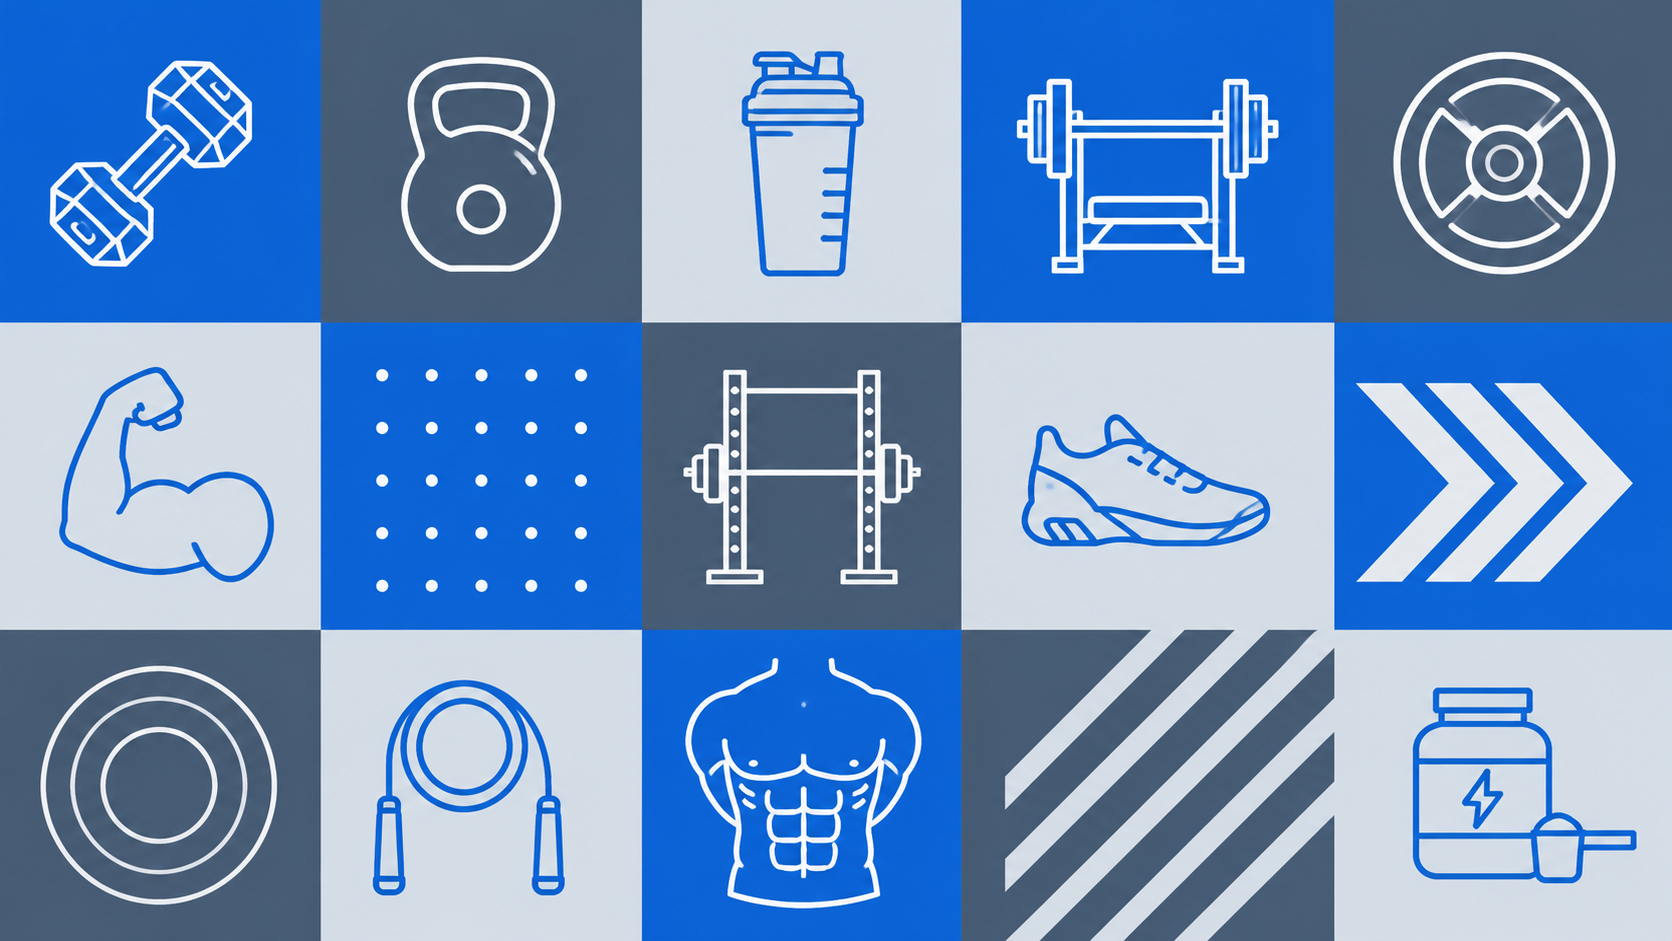
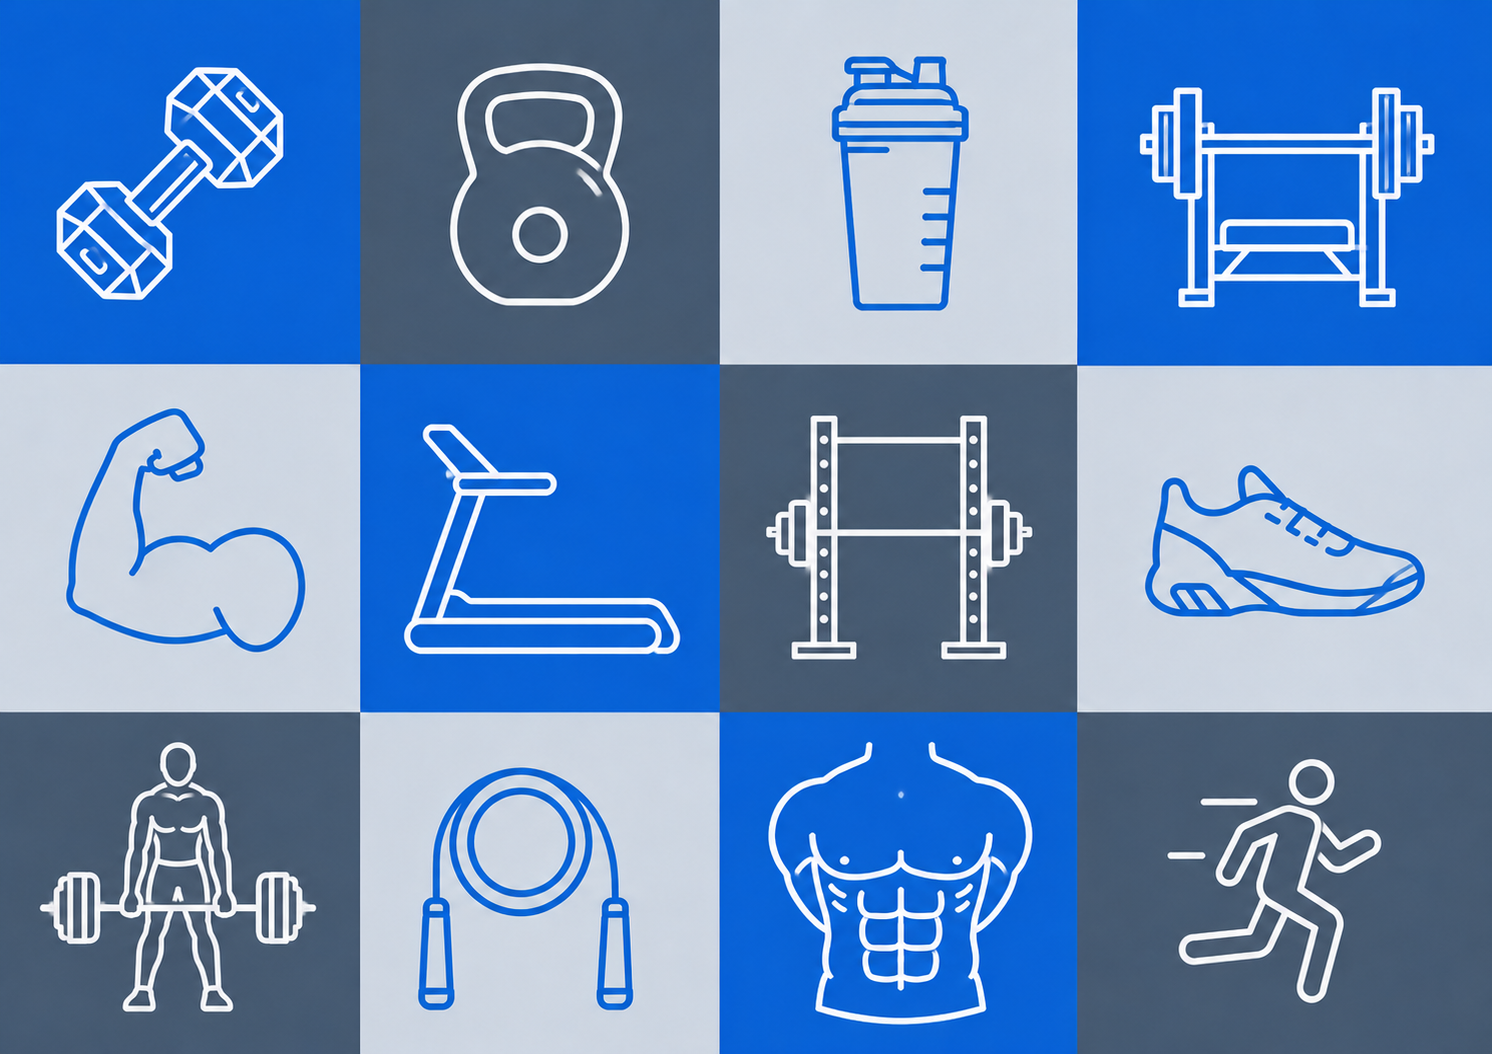
Szűrési lehetőségek létrehozva az exercise komponensben. hibaüzenetek megjelenítése az összes komponensben. a teljes weboldal gombjainak nevei újragondolva. a homepagen egy kicsit szebb hero kép.

diff --git a/src/app/exercise/exercise.component.html b/src/app/exercise/exercise.component.html
@@ -1,13 +1,37 @@
 @if(this.api.isLoggedIn()){
   <select class="form-select mt-3" aria-label="Exercise filter" (change)="onExerciseFilterChange($event)">
     <option value="all" [selected]="!ownExercises">All exercises</option>
-    <option value="own" [selected]="ownExercises">Own exercises</option>
+    <option value="own" [selected]="ownExercises">My exercises</option>
   </select>
-  
+  <div class="row g-2 mt-3 exercise-filters">
+    <div class="col-12 col-md-6">
+      <input
+        type="text"
+        class="form-control"
+        placeholder="Search by name"
+        aria-label="Search exercises by name"
+        [value]="exerciseNameFilter"
+        (input)="onExerciseNameFilterChange($event)">
+    </div>
+
+    <div class="col-12 col-md-6">
+      <select
+        class="form-select"
+        aria-label="Filter exercises by category"
+        [value]="exerciseCategoryFilter"
+        (change)="onExerciseCategoryFilterChange($event)">
+        <option value="">All categories</option>
+        @for(categoryName of availableExerciseCategories; track categoryName){
+          <option [value]="categoryName">{{categoryName}}</option>
+        }
+      </select>
+    </div>
+  </div>
+
   <p>
     <button #addExerciseToggle class="btn mt-5" type="button" data-bs-toggle="collapse" data-bs-target="#collapseWidthExample" aria-expanded="false" aria-controls="collapseWidthExample" (click)="addMode()">
       @if(addModeBool){
-        Cancel
+        Close
       }@else{
         Add Exercise
       }
@@ -24,7 +48,7 @@
           </div>
 
           <div class="mb-3">
-            <label class="form-label" for="exerciseName">Exercise Category</label> 
+            <label class="form-label" for="exerciseName">Category</label> 
             <select class="form-select" aria-label="Default select example" formControlName="category">
 
               
@@ -43,8 +67,12 @@
             <input type="text" class="form-control" id="exerciseDescription" placeholder="Enter exercise description" formControlName="description">
           </div>
 
-          <button type="submit" class="btn">Add</button>
-
+          <button type="submit" class="btn">Create Exercise</button>
+          @if(this.errorMessage != ''){
+            <div class="alert alert-danger mt-3" role="alert">
+                {{ errorMessage }}
+            </div>
+          }
         </form>
 
       </div>
@@ -52,8 +80,10 @@
   </div>
 }
 
-<div class="row row-cols-1 row-cols-md-3 g-4 mt-4 mb-5">
-@for(exercise of exercises; track exercise.id){
+
+
+<div class="row row-cols-1 row-cols-md-2 row-cols-xl-3 g-4 mt-4 mb-5">
+@for(exercise of exercises | exerciseFilter: exerciseNameFilter : exerciseCategoryFilter; track exercise.id){
     <div class="col">
       <div class="card h-100">
         <div [id]="'exerciseCarousel' + exercise.id" class="carousel slide h-100">
@@ -85,14 +115,14 @@
               <div class="card-body d-flex flex-column align-items-center exercise-slide-body">
                 <h5 class="card-title">{{exercise.name}}</h5>
                  @if(this.api.isLoggedIn()){
-                  <button class="btn btnsecondary mb-3" [routerLink]="['/aboutexercise', exercise.id]">Log Exercise</button>
+                  <button class="btn btnsecondary mb-3" [routerLink]="['/aboutexercise', exercise.id]">Record Workout</button>
                   @if(!isOwnExercise(exercise.id)){
-                    <button class="btn btnsecondary" (click)="addOwnExercise({ exercise_id: exercise.id })">Add to Own Exercises</button>
+                    <button class="btn btnsecondary" (click)="addOwnExercise({ exercise_id: exercise.id })">Add to My Exercises</button>
                   }@else {
-                    <button class="btn btnsecondary" (click)="removeOwnExercise(exercise.id)">Remove from Own Exercises</button>
+                    <button class="btn btnsecondary" (click)="removeOwnExercise(exercise.id)">Remove from My Exercises</button>
                   }
                  }@else{
-                  <button class="btn btnsecondary" [routerLink]="['/user']">Log In to Log Exercise</button>
+                  <button class="btn btnsecondary" [routerLink]="['/user']">Log In to Track Workouts</button>
                  }
               </div>
             </div>

diff --git a/src/app/exercise/exercise.component.ts b/src/app/exercise/exercise.component.ts
@@ -2,10 +2,11 @@ import { Component, ElementRef, ViewChild } from '@angular/core';
 import { ApiService } from '../shared/api.service';
 import { RouterLink } from '@angular/router';
 import { FormBuilder, ReactiveFormsModule } from '@angular/forms';
+import { ExerciseFilterPipe } from '../shared/pipes/exercise-filter-pipe';
 
 @Component({
   selector: 'app-exercise',
-  imports: [RouterLink, ReactiveFormsModule],
+  imports: [RouterLink, ReactiveFormsModule, ExerciseFilterPipe],
   templateUrl: './exercise.component.html',
   styleUrl: './exercise.component.css',
 })
@@ -23,6 +24,10 @@ export class ExerciseComponent {
   exerciseForm : any;
   addModeBool = false;
   ownExercises = false;
+  errorMessage = '';
+  exerciseNameFilter = '';
+  exerciseCategoryFilter = '';
+  availableExerciseCategories: string[] = [];
 
 
   ngOnInit() { 
@@ -49,6 +54,7 @@ export class ExerciseComponent {
    addMode() {
     this.addModeBool = !this.addModeBool;
     this.exerciseForm.reset();
+    this.errorMessage = '';
    }
 
   onExerciseFilterChange(event: Event) {
@@ -63,11 +69,22 @@ export class ExerciseComponent {
     this.getExercises();
   }
 
+  onExerciseNameFilterChange(event: Event) {
+    const inputElement = event.target as HTMLInputElement;
+    this.exerciseNameFilter = inputElement.value;
+  }
+
+  onExerciseCategoryFilterChange(event: Event) {
+    const selectElement = event.target as HTMLSelectElement;
+    this.exerciseCategoryFilter = selectElement.value;
+  }
+
   getExercises() {
     this.api.getExercises$().subscribe({
       next : (res : any) => {
         this.exercises = res.data
-        // console.log(this.exercises)
+        this.updateAvailableExerciseCategories(this.exercises)
+        console.log(this.exercises)
       },
       error : (err) => {
         console.log(err)
@@ -92,7 +109,8 @@ export class ExerciseComponent {
     this.api.getExerciseWithoutLoggedIn$().subscribe({
       next : (res : any) => {
         this.exercises = res.data
-        // console.log(this.exercises)
+        this.updateAvailableExerciseCategories(this.exercises)
+        console.log(this.exercises)
       },
       error : (err) => {
         console.log(err)
@@ -114,6 +132,7 @@ export class ExerciseComponent {
 
 
   addExercise(data : any) {
+    this.errorMessage = '';
     this.api.addExercise$(data).subscribe({
       next : (res : any) => {
         console.log(res)
@@ -121,9 +140,13 @@ export class ExerciseComponent {
         if (this.addModeBool) {
           this.addExerciseToggle?.nativeElement.click();
         }
+        
       },
       error : (err) => {
         console.log(err)
+        this.errorMessage = err.error?.errors
+          ? Object.values(err.error.errors).flat().join(' ')
+          : 'Hiba történt.'
       }
     })
   }
@@ -133,6 +156,7 @@ export class ExerciseComponent {
       next : (res : any) => {
         this.ownExerciseIds = res.data.map((item: any) => item.exercise_id)
         this.exercises = res.data.map((item: any) => item.exercise)
+        this.updateAvailableExerciseCategories(this.exercises)
         // console.log(this.exercises)
       },
       error : (err) => {
@@ -169,5 +193,17 @@ export class ExerciseComponent {
         console.log(err)
       }
     })
+  }
+
+  updateAvailableExerciseCategories(exercises: any[]) {
+    this.availableExerciseCategories = [...new Set(
+      exercises
+        .map((exercise: any) => exercise?.category?.name ?? exercise?.category)
+        .filter((categoryName: string | null | undefined) => !!categoryName)
+    )];
+
+    if (this.exerciseCategoryFilter && !this.availableExerciseCategories.includes(this.exerciseCategoryFilter)) {
+      this.exerciseCategoryFilter = '';
+    }
   }
 }

diff --git a/src/app/shared/pipes/exercise-filter-pipe.ts b/src/app/shared/pipes/exercise-filter-pipe.ts
@@ -1,0 +1,27 @@
+import { Pipe, PipeTransform } from '@angular/core';
+
+@Pipe({
+  name: 'exerciseFilter',
+  standalone: true
+})
+export class ExerciseFilterPipe implements PipeTransform {
+
+  transform(exercises: any[] | null, searchTerm = '', selectedCategory = ''): any[] {
+    if (!Array.isArray(exercises)) {
+      return [];
+    }
+
+    const normalizedSearchTerm = searchTerm.trim().toLowerCase();
+    const normalizedCategory = selectedCategory.trim().toLowerCase();
+
+    return exercises.filter((exercise) => {
+      const exerciseName = exercise?.name?.toLowerCase?.() ?? '';
+      const categoryName = exercise?.category?.name?.toLowerCase?.() ?? exercise?.category?.toLowerCase?.() ?? '';
+      const matchesName = !normalizedSearchTerm || exerciseName.includes(normalizedSearchTerm);
+      const matchesCategory = !normalizedCategory || categoryName === normalizedCategory;
+
+      return matchesName && matchesCategory;
+    });
+  }
+
+}

diff --git a/src/app/about-exercise/about-exercise.component.html b/src/app/about-exercise/about-exercise.component.html
@@ -8,9 +8,9 @@
 <p>
   <button #addProgressLogToggle class="btn mt-3" type="button" data-bs-toggle="collapse" data-bs-target="#collapseWidthExample" aria-expanded="false" aria-controls="collapseWidthExample" (click)="addMode()">
     @if(addModeBool){
-      Cancel
+      Close
     }@else{
-      Add Progress Log
+      Record Workout
     }
   </button>
 </p>
@@ -39,7 +39,12 @@
           <input type="text" class="form-control" id="note" placeholder="Enter note" formControlName="note">
         </div>
 
-        <button type="submit" class="btn">Add</button>
+        <button type="submit" class="btn">Save Workout</button>
+          @if(this.errorMessage != ''){
+            <div class="alert alert-danger mt-3" role="alert">
+                {{ errorMessage }}
+            </div>
+        }        
       </form>
     </div>
   </div>
@@ -54,10 +59,10 @@
             <a>Reps: {{ progressLog.reps }}</a><br>
             <a>Sets: {{ progressLog.sets }}</a><br>
             <a>Note: {{ progressLog.note }}</a><br>
-            <a>Recorded: {{ progressLog.recorded_at }}</a>
+            <a>Recorded at: {{ progressLog.recorded_at }}</a>
             
         </li>
-        <button class="btn mb-2" (click)="deleteProgressLog(progressLog.id)">Törlés</button>
+        <button class="btn mb-2" (click)="deleteProgressLog(progressLog.id)">Delete</button>
         
 
     }

diff --git a/src/app/about-exercise/about-exercise.component.ts b/src/app/about-exercise/about-exercise.component.ts
@@ -22,6 +22,7 @@ export class AboutExerciseComponent {
   progressLogs: any[] = [];
   progressLogForm : any;
   addModeBool = false;
+  errorMessage = '';
 
   ngOnInit() {
     const id = this.route?.snapshot.paramMap.get('id');
@@ -40,6 +41,7 @@ export class AboutExerciseComponent {
   addMode() {
     this.addModeBool = !this.addModeBool;
     this.progressLogForm.reset();
+    this.errorMessage = '';
   }
 
   getProgressLogByExerciseId(id: number) {
@@ -60,7 +62,7 @@ export class AboutExerciseComponent {
     if (this.exerciseId === null) {
       return;
     }
-
+    this.errorMessage = '';
     this.api.addProgressLog$({
       exercise_id: this.exerciseId,
       weight: data.weight,
@@ -74,9 +76,13 @@ export class AboutExerciseComponent {
         if (this.addModeBool) {
           this.addProgressLogToggle?.nativeElement.click();
         }
+        
       },
       error: (err) => {
         console.log(err);
+        this.errorMessage = err.error?.errors
+          ? Object.values(err.error.errors).flat().join(' ')
+          : 'Hiba történt.';
       }
     })
   }

diff --git a/src/app/shared/pipes/exercise-filter-pipe.spec.ts b/src/app/shared/pipes/exercise-filter-pipe.spec.ts
@@ -1,0 +1,8 @@
+import { ExerciseFilterPipe } from './exercise-filter-pipe';
+
+describe('ExerciseFilterPipe', () => {
+  it('create an instance', () => {
+    const pipe = new ExerciseFilterPipe();
+    expect(pipe).toBeTruthy();
+  });
+});

diff --git a/src/app/about-exercise/about-exercise.component.css b/src/app/about-exercise/about-exercise.component.css
@@ -15,7 +15,9 @@
 }
 
 .btnback {
-	padding: 7px 7px 7px 3px;
+	padding: 3px 3px 3px 2px;
+	border-radius: 6px ;
+	/* padding: 7px 7px 7px 3px; */
 	border: 0;
 	background: transparent;
     background-color: var(--secondary);

diff --git a/src/app/exercise/exercise.component.css b/src/app/exercise/exercise.component.css
@@ -52,3 +52,7 @@
     margin-bottom: 0.6rem;
 }
 
+.exercise-filters {
+    align-items: stretch;
+}
+

diff --git a/src/app/home/home.component.html b/src/app/home/home.component.html
@@ -12,7 +12,7 @@
 
 	<div class="hero-visual" aria-hidden="true">
 		<div class="hero-image-frame">
-			<img class="hero-image" src="/bakcground2.png" alt="" />
+			<img class="hero-image" src="/background.png" alt="" />
 		</div>
 	</div>
 </section>

diff --git a/src/app/navbar/navbar.component.html b/src/app/navbar/navbar.component.html
@@ -10,7 +10,7 @@
           <a class="nav-link navtext" aria-current="page" routerLink="user">{{ isLoggedIn() ? 'Profile' : 'Login' }}</a>
         </li>
         <li class="nav-item">
-          <a class="nav-link navtext" routerLink="exercise">Workout Log</a>
+          <a class="nav-link navtext" routerLink="exercise">Exercises</a>
         </li>
       </ul>
     </div>